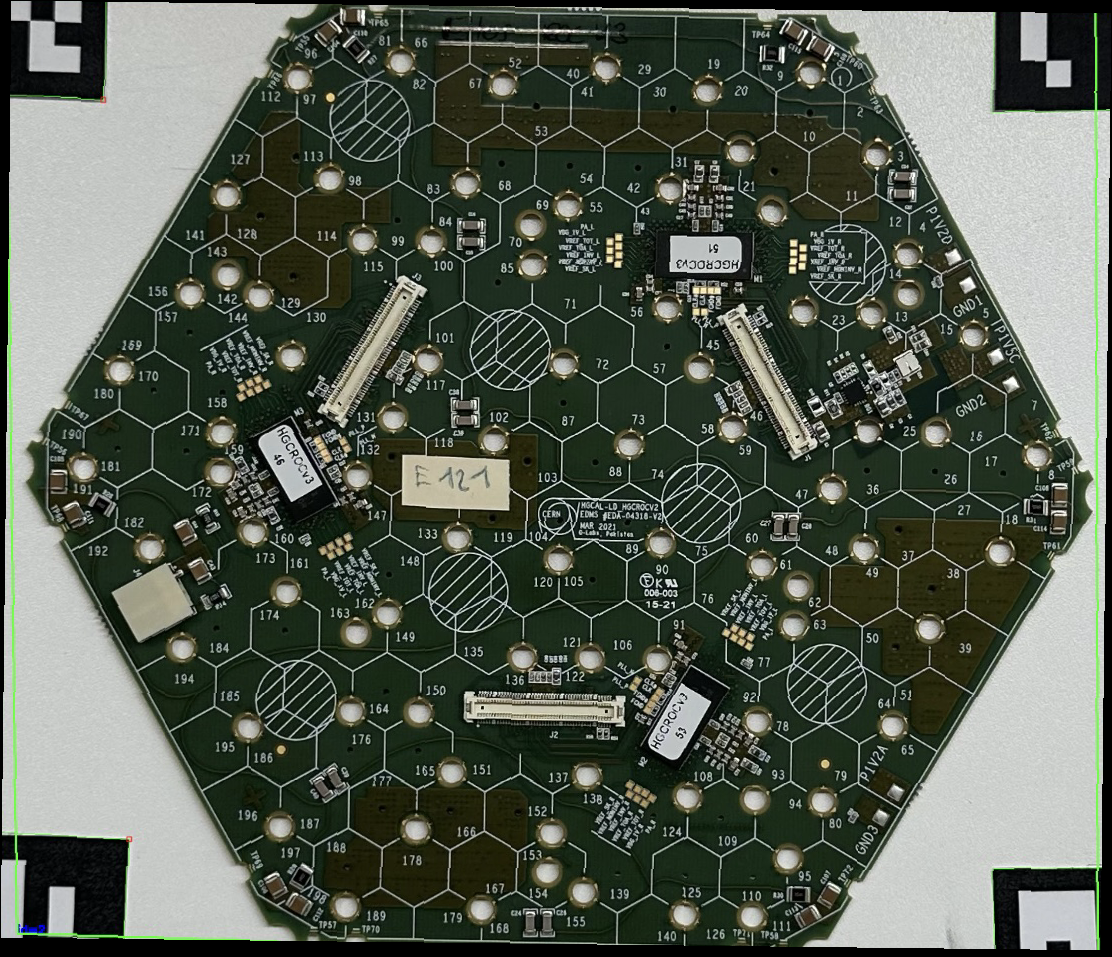
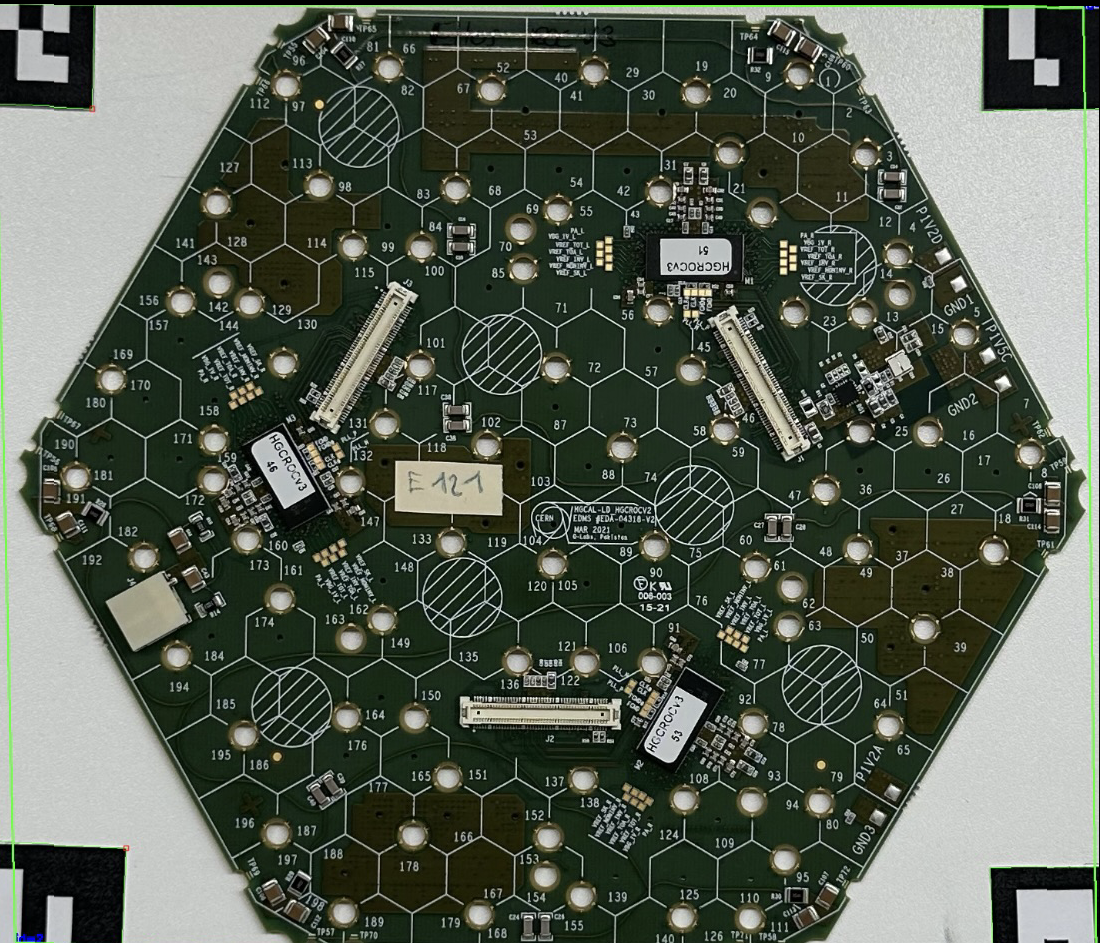
Clean up code for image_lineup.py

diff --git a/autoencoder/image_lineup.py b/autoencoder/image_lineup.py
@@ -8,6 +8,7 @@ import numpy as np
 import matplotlib.pyplot as plt
 import torch
 import torch.nn.functional as F
+import torchvision
 
 # Path to the datasets folder
 DATASET_PATH = './datasets'
@@ -15,11 +16,9 @@ DATASET_PATH = './datasets'
 # Function to randomly rotate and shift the image
 def random_tranform(
     image: Image.Image,
-    max_shift: int = 10,
-    max_rotation: float = 1.0
+    max_shift: int = 5,
+    max_rotation: float = 0.25
 ) -> Image.Image:
-    width, height = image.size
-
     # Random shifts
     shift_x = random.randint(-max_shift, max_shift)
     shift_y = random.randint(-max_shift, max_shift)
@@ -28,21 +27,15 @@ def random_tranform(
     rotation = random.uniform(-max_rotation, max_rotation)
 
     # Apply the shift
-    shifted_image = Image.new('RGB', (width + abs(shift_x), height + abs(shift_y)))
-    shifted_image.paste(image, (max(shift_x, 0), max(shift_y, 0)))
-    shifted_image = shifted_image.crop(
-        (
-            abs(shift_x),
-            abs(shift_y),
-            abs(shift_x) + width,
-            abs(shift_y) + height
-        )
+    shifted_image = torchvision.transforms.functional.affine(
+        image,
+        angle=rotation,
+        translate=(shift_x, shift_y),
+        scale=1,
+        shear=0
     )
 
-    # Apply the rotation
-    rotated_image = shifted_image.rotate(rotation, expand=True)
-
-    return rotated_image
+    return shifted_image
 
 # Function to detect the T-shape pattern using convolution
 def detect_T_shape(
@@ -54,15 +47,20 @@ def detect_T_shape(
     kernel: torch.Tensor
 ) -> Tuple[int, int]:
     # Convert PIL image to PyTorch tensor
-    image_tensor = torch.from_numpy(np.array(image)).float().unsqueeze(0).permute(0, 3, 1, 2)
+    image_tensor = torchvision.transforms.functional.to_tensor(image).unsqueeze(0)
     top_corner_image = image_tensor[:, :, lower_y_bound:upper_y_bound, lower_x_bound:upper_x_bound]
     output = F.conv2d(top_corner_image, kernel)
     max_value = output.max()
+
+    plt.imshow(output.squeeze(0).moveaxis(0, 2).detach().cpu().numpy())
+    plt.show()
+
     best_match_location = (output == max_value).nonzero(as_tuple=True)
     batch_idx, channel_idx, y_coord, x_coord = best_match_location
     y_coord += lower_y_bound
     x_coord += lower_x_bound
-    
+    print(x_coord, y_coord)
+
     return x_coord.item(), y_coord.item()
 
 # Function to align the image based on detected T-shape patterns
@@ -74,27 +72,40 @@ def align_image(
     # Calculate the translation needed to align the top T-shape
     translation_x = expected_top_x - top_x
     translation_y = expected_top_y - top_y
-    
-    # Apply the translation
-    translated_image = Image.new('RGB', (image.width + abs(translation_x), image.height + abs(translation_y)))
-    translated_image.paste(image, (max(translation_x, 0), max(translation_y, 0)))
-    translated_image = translated_image.crop(
-        (
-            abs(translation_x),
-            abs(translation_y),
-            abs(translation_x) + image.width,
-            abs(translation_y) + image.height
-        )
-    )
-    
+
     # Calculate the rotation needed to align the bottom T-shape
     angle = np.arctan2(expected_bottom_y - expected_top_y, expected_bottom_x - expected_top_x) - np.arctan2(bottom_y - top_y, bottom_x - top_x)
     angle = np.degrees(angle)
-    
-    # Apply the rotation
-    aligned_image = translated_image.rotate(angle, center=(expected_top_x, expected_top_y), expand=True)
-    
+    aligned_image = torchvision.transforms.functional.affine(
+        image,
+        angle=angle,
+        translate=(translation_x, translation_y),
+        scale=1,
+        shear=0
+    )
+
     return aligned_image
+
+# Function to find the area with T-shape
+def view_T_shape(
+    image: Image.Image,
+    x_lb: int, x_ub: int,
+    y_lb: int, y_ub: int,
+    title: str = None
+):
+    # Convert the image to a numpy array for indexing
+    image_array = np.array(image)
+
+    # Extract the region
+    region = image_array[y_lb:y_ub, x_lb:x_ub]
+
+    # Display the extracted region
+    plt.imshow(region)
+    if title:
+        plt.title(title)
+    else:
+        plt.title("Region around T-shape")
+    plt.show()
 
 # Function to generate the convolution kernel
 def generate_T_kernel(
@@ -107,15 +118,19 @@ def generate_T_kernel(
     return kernel
 
 # Define the T-shape kernels
-top_t_shape = [
+top_T_shape = [
     [1, 1, 1, 1, 1, 1],
+    [0, 0, 1, 1, 0, 0],
+    [0, 0, 1, 1, 0, 0],
     [0, 0, 1, 1, 0, 0],
     [0, 0, 1, 1, 0, 0],
     [0, 0, 1, 1, 0, 0],
     [0, 0, 1, 1, 0, 0]
 ]
 
-bottom_t_shape = [
+bottom_T_shape = [
+    [0, 0, 1, 1, 0, 0],
+    [0, 0, 1, 1, 0, 0],
     [0, 0, 1, 1, 0, 0],
     [0, 0, 1, 1, 0, 0],
     [0, 0, 1, 1, 0, 0],
@@ -123,36 +138,20 @@ bottom_t_shape = [
     [1, 1, 1, 1, 1, 1]
 ]
 
-# Load the image
-image = Image.open(os.path.join(DATASET_PATH, 'HexaBoardExample.png'))
+# Load the unperturbed image
+image = Image.open(os.path.join(DATASET_PATH, 'unperturbed_data', 'HexaBoardExample.png'))
 
-# Display the entire image
-plt.imshow(image)
-plt.title("Full HexaBoard Image")
-plt.show()
-
-# Convert the image to a numpy array for indexing
-image_array = np.array(image)
-
-# Define the region around the top-left T-shape
-# Adjust these bounds based on visual inspection of the image
-lower_x_bound, upper_x_bound = 380, 400
-lower_y_bound, upper_y_bound = 0, 20
-
-# Extract the region
-top_left_region = image_array[lower_y_bound:upper_y_bound, lower_x_bound:upper_x_bound]
-
-# Display the extracted region
-plt.imshow(top_left_region)
-plt.title("Top Left Region around T-shape")
-plt.show()
+# # Display the entire image
+# plt.imshow(image)
+# plt.title("Full HexaBoard Image")
+# plt.show()
 
 # # Generate and display random transformations
 # transformed_images = [random_tranform(image) for _ in range(4)]
 
 # # Save the images
 # for i, img in enumerate(transformed_images):
-#     img.save(os.path.join(DATASET_PATH, f"transformed_image_{i+1}.png"))
+#     img.save(os.path.join(DATASET_PATH, 'transformed_data', f"transformed_image_{i+1}.png"))
 
 # # Display the images
 # fig, axes = plt.subplots(1, 4, figsize=(20, 5))
@@ -162,3 +161,93 @@ plt.show()
 #     ax.axis('off')
 
 # plt.show()
+
+# Adjust based on expected T-shape location
+top_x_lb, top_x_ub = 380, 400
+top_y_lb, top_y_ub = 0, 20
+bottom_x_lb, bottom_x_ub = 403, 423
+bottom_y_lb, bottom_y_ub = image.height - 20, image.height
+
+# # View the T-shapes of the based image
+# view_T_shape(
+#     image=image,
+#     x_lb=top_x_lb, x_ub=top_x_ub,
+#     y_lb=top_y_lb, y_ub=top_y_ub
+# )
+# view_T_shape(
+#     image=image,
+#     x_lb=bottom_x_lb, x_ub=bottom_x_ub,
+#     y_lb=bottom_y_lb, y_ub=bottom_y_ub
+# )
+
+# Load the transformed image
+transformed_image = Image.open(os.path.join(DATASET_PATH, 'transformed_data', 'transformed_image_1.png'))
+print("Shape of the Transformed Image:", transformed_image.size)
+
+# # View the T-shapes of the transformed image
+# view_T_shape(
+#     image=transformed_image,
+#     x_lb=top_x_lb, x_ub=top_x_ub,
+#     y_lb=top_y_lb, y_ub=top_y_ub
+# )
+# view_T_shape(
+#     image=transformed_image,
+#     x_lb=bottom_x_lb, x_ub=bottom_x_ub,
+#     y_lb=bottom_y_lb, y_ub=bottom_y_ub
+# )
+
+# Generate the kernels
+num_channels = 3
+top_T_kernel = generate_T_kernel(top_T_shape, num_channels)
+bottom_T_kernel = generate_T_kernel(bottom_T_shape, num_channels)
+
+# Detect top and bottom T-shapes for the based image
+expected_top_x, expected_top_y = detect_T_shape(image, top_x_lb, top_x_ub, top_y_lb, top_y_ub, top_T_kernel)
+expected_bottom_x, expected_bottom_y = detect_T_shape(image, bottom_x_lb, bottom_x_ub, bottom_y_lb, bottom_y_ub, bottom_T_kernel)
+
+# Hard-code the coordinates to the center of the T-shapes
+expected_top_x = expected_top_x + 2
+expected_bottom_x = expected_bottom_x + 2
+expected_bottom_y = expected_bottom_y - 6
+
+# Detect top and bottom T-shapes for the transformed image
+top_x, top_y = detect_T_shape(transformed_image, top_x_lb, top_x_ub, top_y_lb, top_y_ub, top_T_kernel)
+bottom_x, bottom_y = detect_T_shape(transformed_image, bottom_x_lb, bottom_x_ub, bottom_y_lb, bottom_y_ub, bottom_T_kernel)
+
+# Hard-code the coordinates to the center of the T-shapes
+top_x = top_x + 2
+bottom_x = bottom_x + 2
+bottom_y = bottom_y - 6
+
+# Align the transformed image
+aligned_image = align_image(
+    transformed_image,
+    top_x, top_y, bottom_x, bottom_y,
+    expected_top_x, expected_top_y, expected_bottom_x, expected_bottom_y
+)
+
+# View the T-shapes of the based image and the realigned image for comparisons
+view_T_shape(
+    image=image,
+    x_lb=top_x_lb, x_ub=top_x_ub,
+    y_lb=top_y_lb, y_ub=top_y_ub,
+    title='Top T of Based Image'
+)
+view_T_shape(
+    image=aligned_image,
+    x_lb=top_x_lb, x_ub=top_x_ub,
+    y_lb=top_y_lb, y_ub=top_y_ub,
+    title='Top T of Aligned Image'
+)
+view_T_shape(
+    image=image,
+    x_lb=bottom_x_lb, x_ub=bottom_x_ub,
+    y_lb=bottom_y_lb, y_ub=bottom_y_ub,
+    title='Bottom T of Based Image'
+)
+view_T_shape(
+    image=aligned_image,
+    x_lb=bottom_x_lb, x_ub=bottom_x_ub,
+    y_lb=bottom_y_lb, y_ub=bottom_y_ub,
+    title='Bottom T of Aligned Image'
+)
